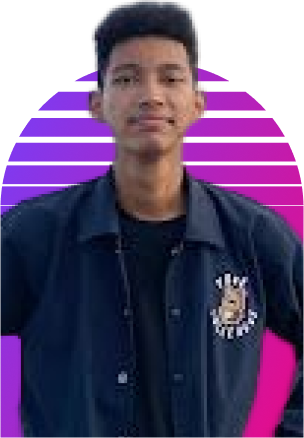
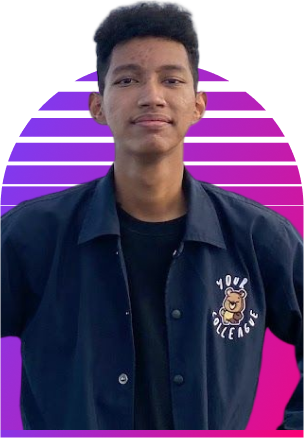
add(beranda/testimoni): add new image & testimony

diff --git a/components/beranda/Testimoni.tsx b/components/beranda/Testimoni.tsx
@@ -42,6 +42,14 @@ function Testimoni() {
         "Menurut saya Blastout 2022 merupakan acara yang sangat menarik. Try out yang diadakan cocok banget buat jadi persiapan ujian masuk ptn. Try out tersebut bisa dijadikan sebagai latihan untuk menguji sejauh mana tingkat kemampuan dan tingkat pemahaman materi masing-masing. Selain try out tersebut ada juga beberapa rangkaian acara asik lainnya, yaitu talkshow dan lomba. Intinya secara keseluruhan acaranya asik banget.",
       image: "/beranda/testimoni/naufal.png",
     },
+    // {
+    //   nama: "Fathya Rizkyana K",
+    //   fakultas: "Kesehatan Gigi 2021",
+    //   blastout: "Blastout 2021",
+    //   testimoni:
+    //     "seruu dapet pengalaman baru, bisa latihan soal model terbaru. terus ada talkshow jugaa yg menambah motivasi hidup :) gstarnya menambah semangat dan jadi bisa refreshing setelah otak bekerja keras ngutak-atik soal.",
+    //   image: "/beranda/testimoni/hidayat.png",
+    // },
     {
       nama: "Hidayat Syaifudin Ma'arif",
       fakultas: "Teknik Sipil 2022",
@@ -56,7 +64,7 @@ function Testimoni() {
       blastout: "Blastout 2020 & 2021",
       testimoni:
         "pernah cobain yang offline sama online dan itu seru bangettt. Apalagi taun ini bakal offline kann, pasti bakal lebih seruu",
-      image: "",
+      image: "/beranda/testimoni/rosyidatun.png",
     },
     {
       nama: "Salva Ditya Alvira",
@@ -66,14 +74,14 @@ function Testimoni() {
         "TO blastout kemarin cukup membantu buat nyiapin utbk, karena bisa nambah perbendaharaan soal-soal juga, selain itu kita dikasih urutan ranking hasil TO nya jadi sekalian bisa buat patokan sejauh mana kita paham tentang materi utbk kemarin",
       image: "/beranda/testimoni/salva.png",
     },
-    {
-      nama: "Rangga Mahardhika Indarta",
-      fakultas: "Teknik Pertanian 2022",
-      blastout: "Blastout 2022",
-      testimoni:
-        "Blastout tahun lalu seru dan bermanfaat banget. Meskipun online, rangkaian acaranya tetep bagusss. Ada tryout yang soalnya bener² bermanfaat dan talkshownya juga bermanfaat bangett.",
-      image: "",
-    },
+    // {
+    //   nama: "Rangga Mahardhika Indarta",
+    //   fakultas: "Teknik Pertanian 2022",
+    //   blastout: "Blastout 2022",
+    //   testimoni:
+    //     "Blastout tahun lalu seru dan bermanfaat banget. Meskipun online, rangkaian acaranya tetep bagusss. Ada tryout yang soalnya bener² bermanfaat dan talkshownya juga bermanfaat bangett.",
+    //   image: "",
+    // },
   ];
 
   return (
